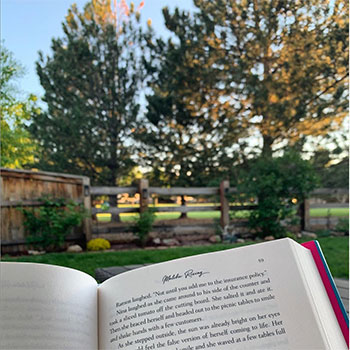
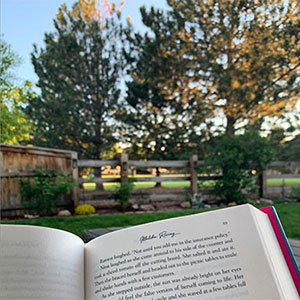
distortion fix

diff --git a/summer-reading/scrapbook/index.html b/summer-reading/scrapbook/index.html
@@ -164,15 +164,12 @@ background-position: 0 0;
 	-webkit-backface-visibility: hidden;
 	background: #fff;
 	padding: 15px 15px 40px 15px;
-	width: 350px;
-	height: 350px;
 	-webkit-transform: rotate(5deg);
 	-o-transform: rotate(5deg);
 	-moz-transform: rotate(5deg);
 	-moz-box-shadow: 0px 6px 10px rgba(0,0,0,.4);
 	-webkit-box-shadow: 0px 6px 10px rgba(0,0,0,.4);
 	box-shadow: 0px 6px 10px rgba(0,0,0,.4);
-	margin-top: -25px;
 }
 .photo:nth-child(even) {
 	-webkit-backface-visibility: hidden;
